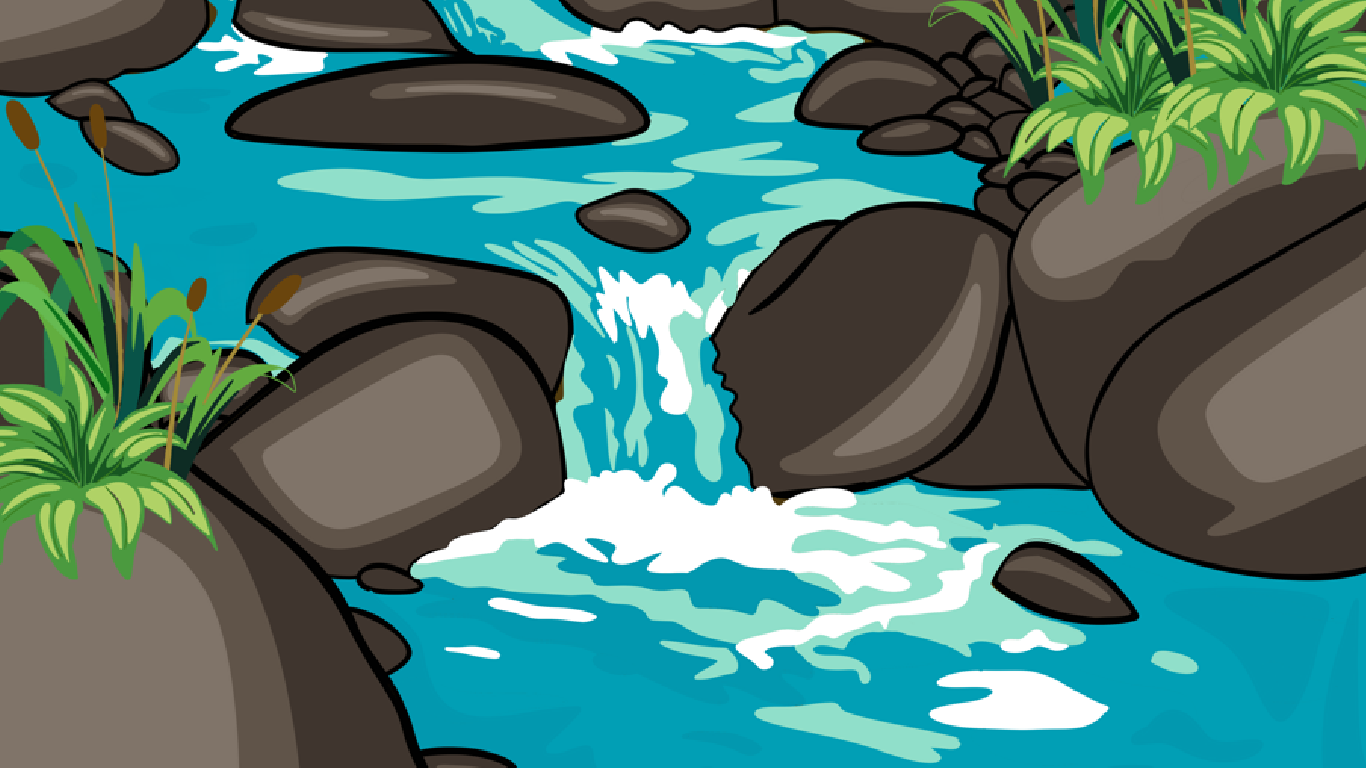
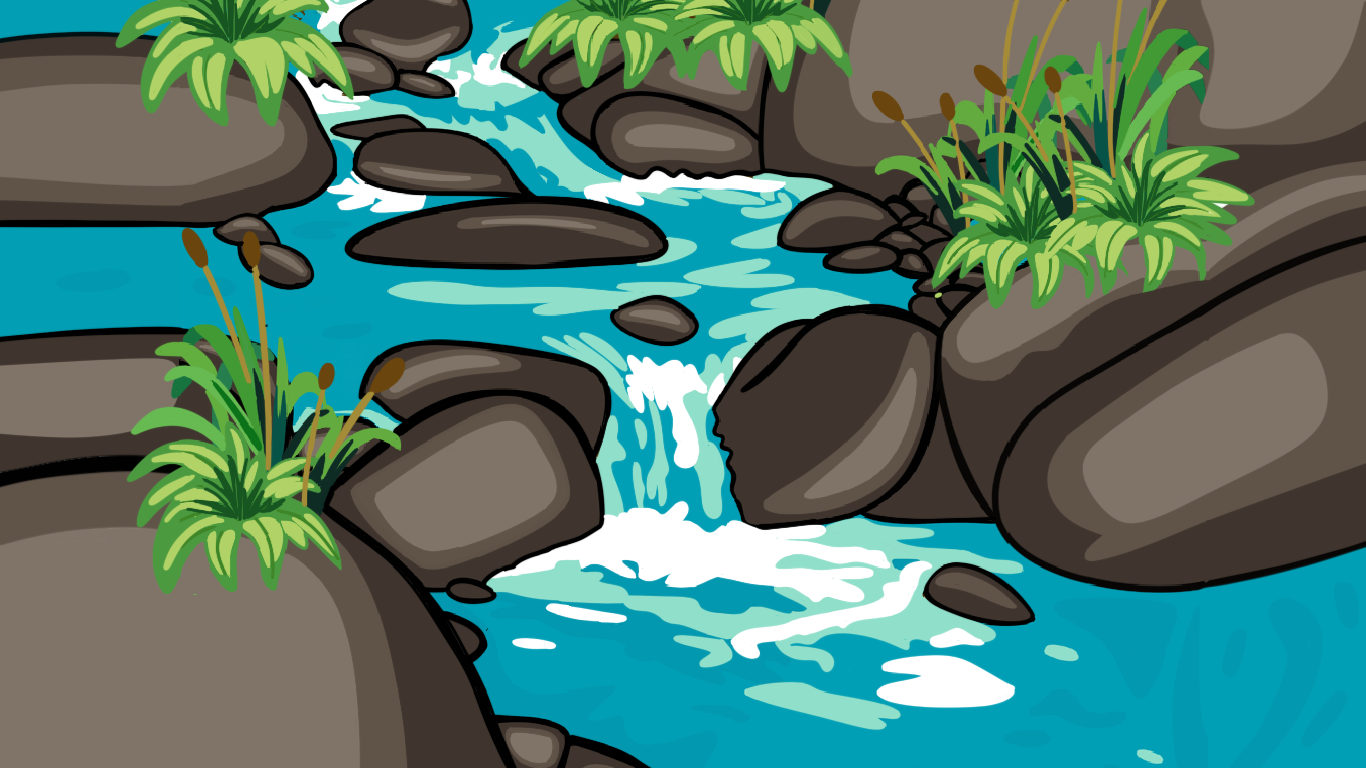
ajustame la imagen de fondo de la estacion 4  tu tarea es revisar el cod

diff --git a/src/app/components/challenges/Station4.tsx b/src/app/components/challenges/Station4.tsx
@@ -14,6 +14,7 @@ import PrizeDialog from "../PrizeDialog";
 import { PlaceHolderImages } from "@/lib/placeholder-images";
 import { motion, AnimatePresence } from "framer-motion";
 import TypewriterText from "../auth/TypewriterText";
+import ResponsiveBackground from "../ResponsiveBackground";
 
 const challenges = {
   quiz: {
@@ -212,57 +213,45 @@ export default function Station4() {
       );
     }
     return (
-      <div className="w-full flex-grow flex flex-col items-center justify-center p-4 relative overflow-hidden">
-        {terrazulBgImage && (
-            <Image
-                src={terrazulBgImage.imageUrl}
-                alt={terrazulBgImage.description}
-                fill
-                style={{objectFit: 'cover'}}
-                className="z-0 opacity-80"
-                data-ai-hint={terrazulBgImage.imageHint}
-            />
-        )}
-        <div className="relative z-10 flex flex-col items-center justify-center text-center w-full">
-          <div className="bg-primary text-white font-headline py-3 px-8 md:px-10 rounded-lg shadow-lg mb-8 text-center">
-            <h1 className="text-3xl md:text-5xl">TerrAzul</h1>
-          </div>
-
-          <div className="flex flex-col md:flex-row gap-6 md:gap-8 mb-8">
-            {(Object.keys(challenges) as ChallengeId[]).map((key) => {
-              const challenge = challenges[key];
-              const Icon = challenge.icon;
-              return (
-                <button
-                  key={key}
-                  onClick={() => setSelectedChallenge(key)}
-                  className="transition-transform duration-300 hover:scale-105 group"
-                >
-                  <Card className="w-60 md:w-64 h-auto md:h-56 bg-card/80 backdrop-blur-sm hover:bg-card/95 transition-colors">
-                    <CardContent className="flex flex-col items-center justify-center text-center p-4 h-full">
-                      <Icon className="w-12 h-12 md:w-16 md:h-16 text-primary mb-3" />
-                      <h2 className="font-bold font-headline text-xl md:text-2xl text-primary">
-                        {challenge.title}
-                      </h2>
-                      <p className="text-muted-foreground text-sm mt-1">
-                        {challenge.description}
-                      </p>
-                    </CardContent>
-                  </Card>
-                </button>
-              );
-            })}
-          </div>
-
-          <div className="mt-4 max-w-md mx-auto space-y-4">
-            <p className="bg-background/80 p-4 rounded-md text-center">
-              Selecciona uno de los retos para demostrar tu compromiso con la
-              conservación del agua.
-            </p>
-            <Button onClick={handleSimulateComplete}>Simular Finalización</Button>
-          </div>
+      <ResponsiveBackground>
+        <div className="bg-primary text-white font-headline py-3 px-8 md:px-10 rounded-lg shadow-lg mb-8 text-center">
+          <h1 className="text-3xl md:text-5xl">TerrAzul</h1>
         </div>
-      </div>
+
+        <div className="flex flex-col md:flex-row gap-6 md:gap-8 mb-8">
+          {(Object.keys(challenges) as ChallengeId[]).map((key) => {
+            const challenge = challenges[key];
+            const Icon = challenge.icon;
+            return (
+              <button
+                key={key}
+                onClick={() => setSelectedChallenge(key)}
+                className="transition-transform duration-300 hover:scale-105 group"
+              >
+                <Card className="w-60 md:w-64 h-auto md:h-56 bg-card/80 backdrop-blur-sm hover:bg-card/95 transition-colors">
+                  <CardContent className="flex flex-col items-center justify-center text-center p-4 h-full">
+                    <Icon className="w-12 h-12 md:w-16 md:h-16 text-primary mb-3" />
+                    <h2 className="font-bold font-headline text-xl md:text-2xl text-primary">
+                      {challenge.title}
+                    </h2>
+                    <p className="text-muted-foreground text-sm mt-1">
+                      {challenge.description}
+                    </p>
+                  </CardContent>
+                </Card>
+              </button>
+            );
+          })}
+        </div>
+
+        <div className="mt-4 max-w-md mx-auto space-y-4">
+          <p className="bg-background/80 p-4 rounded-md text-center">
+            Selecciona uno de los retos para demostrar tu compromiso con la
+            conservación del agua.
+          </p>
+          <Button onClick={handleSimulateComplete}>Simular Finalización</Button>
+        </div>
+      </ResponsiveBackground>
     );
   };
 

diff --git a/src/app/components/ResponsiveBackground.tsx b/src/app/components/ResponsiveBackground.tsx
@@ -1,0 +1,36 @@
+"use client";
+
+import React from "react";
+
+export default function ResponsiveBackground({
+  children,
+}: { children: React.ReactNode }) {
+  return (
+    <div className="relative w-full min-h-full flex flex-col items-center justify-center p-4 overflow-hidden">
+      {/* Capa de imagen de fondo responsiva */}
+      <picture>
+        {/* Desktop >= 1280px */}
+        <source
+          media="(min-width: 1280px)"
+          srcSet="/backgrounds/Rio_1366x_768.png"
+        />
+        {/* Tablet >= 768px */}
+        <source
+          media="(min-width: 768px)"
+          srcSet="/backgrounds/Rio_1024x768.png"
+        />
+        {/* Móvil (fallback) */}
+        <img
+          src="/backgrounds/Rio_360x649.png"
+          alt="Fondo del aplicativo"
+          className="pointer-events-none select-none absolute inset-0 h-full w-full object-cover z-0"
+        />
+      </picture>
+
+      {/* Contenido del app sobre el fondo */}
+      <div className="relative z-10 flex flex-col items-center justify-center text-center w-full">
+        {children}
+      </div>
+    </div>
+  );
+}

diff --git a/src/app/components/challenges/WordSearchGame.tsx b/src/app/components/challenges/WordSearchGame.tsx
@@ -16,8 +16,8 @@ const grid = [
   ['O', 'F', 'A', 'U', 'N', 'A', 'X', 'B', 'C', 'U'],
   ['S', 'L', 'O', 'R', 'R', 'I', 'O', 'S', 'O', 'A'],
   ['Z', 'O', 'C', 'B', 'M', 'O', 'V', 'Q', 'M', 'S'],
-  ['B', 'O', 'S', 'Q', 'U', 'E', 'Y', 'Z', 'P', 'U'],
-  ['J', 'R', 'U', 'E', 'L', 'O', 'L', 'F', 'O', 'E'],
+  ['B', 'R', 'S', 'Q', 'U', 'E', 'Y', 'Z', 'P', 'U'],
+  ['J', 'A', 'U', 'E', 'L', 'O', 'L', 'F', 'O', 'E'],
   ['K', 'A', 'E', 'L', 'C', 'S', 'A', 'W', 'S', 'L'],
   ['N', 'G', 'L', 'P', 'O', 'D', 'R', 'A', 'T', 'O'],
   ['S', 'O', 'L', 'A', 'M', 'B', 'I', 'E', 'N', 'T'],
